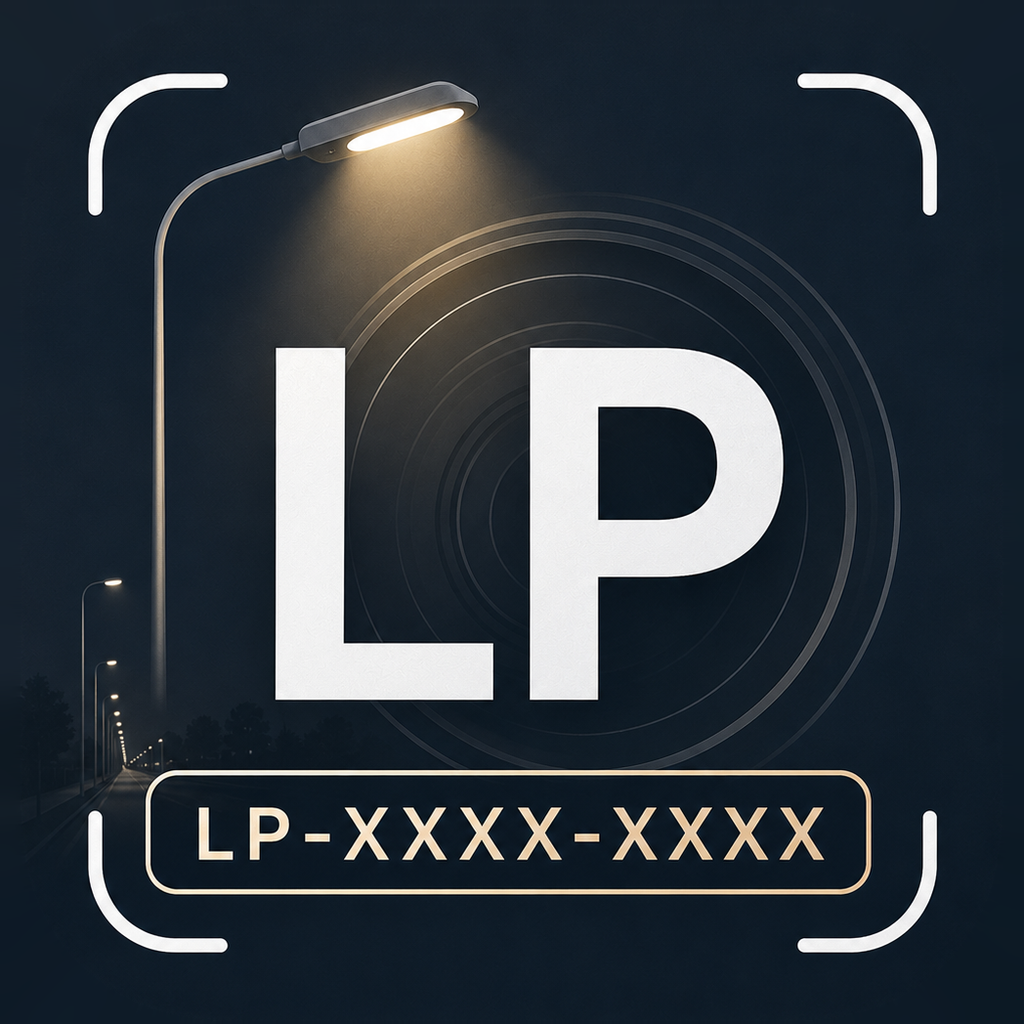
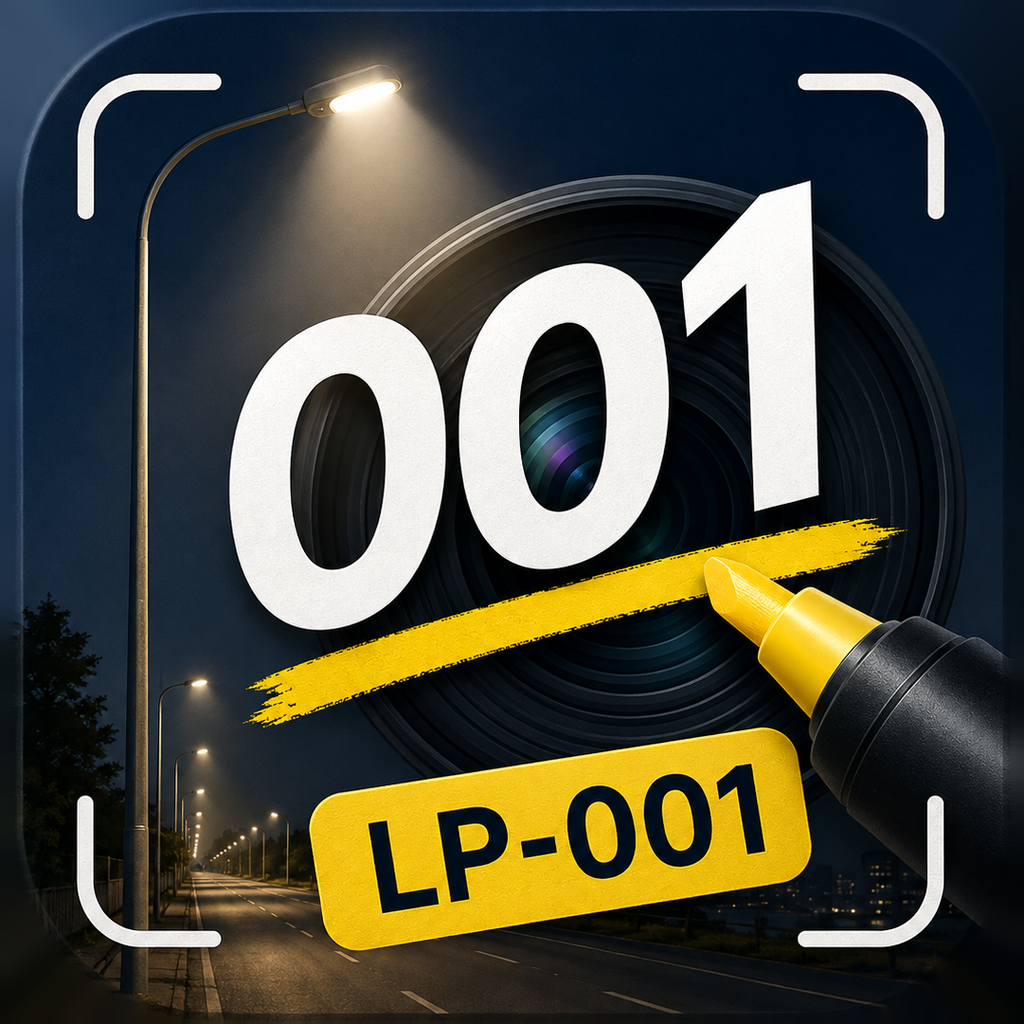
เปลี่ยนไอคอนแอปเป็นภาพใหม่ (001 + ปากกาไฮไลต์ + ป้าย LP-001)
ผ่านไปป์ไลน์เดิม: ตัดพื้นขาวกับเงาทิ้ง เติมสีพื้นเข้ามุมทั้งสี่ให้เต็มจัตุรัส
ปล่อยให้ iOS มาสก์ทรง squircle เอง
ตรวจแล้วเนื้อหาสว่างไม่โดนมาสก์กัดเลย (0.000%) และตัว maskable ของ Android
ยังอยู่ครบภายใต้มาสก์วงกลม
ขยับ CACHE เป็น v5 ให้เครื่องที่ติดตั้งไว้ดึงไอคอนใหม่

diff --git a/sw.js b/sw.js
@@ -1,5 +1,5 @@
 /* แคชไฟล์แอปไว้ใช้ตอนสัญญาณไม่ดี — เปลี่ยน CACHE เมื่อแก้ไฟล์ใด ๆ */
-var CACHE = 'markingphotos-v4';
+var CACHE = 'markingphotos-v5';
 
 var GLYPHS = '0123456789ABCDEFGHIJKLMNOPQRSTUVWXYZ'.split('')
   .map(function (c) { return 'assets/glyphs/' + c + '.png'; })
